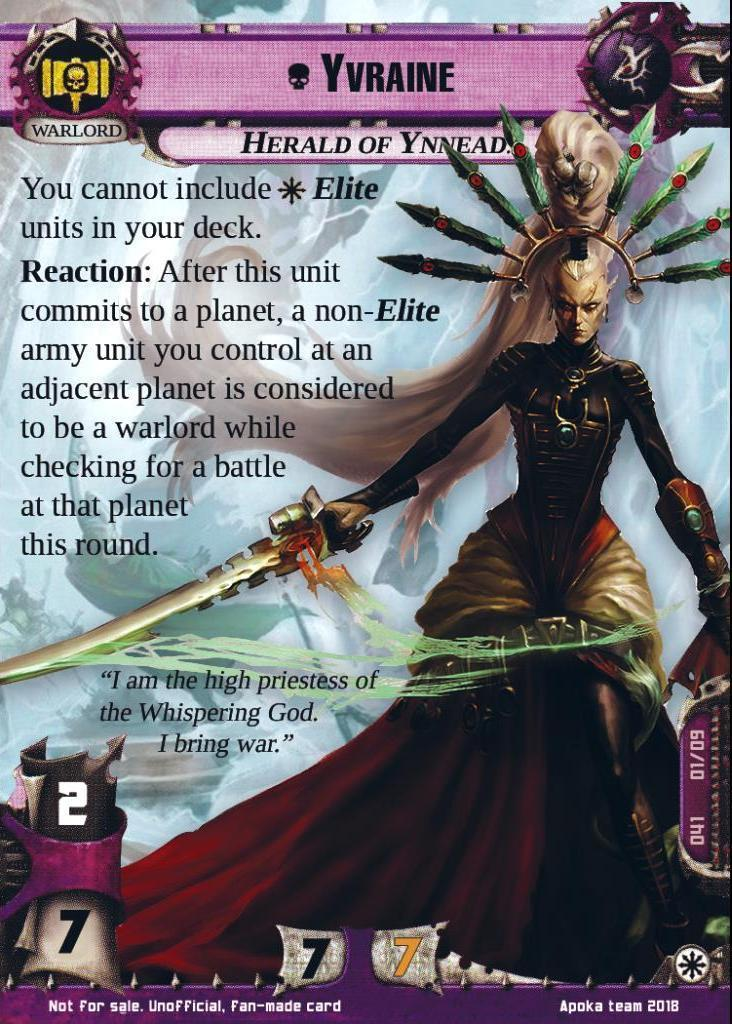
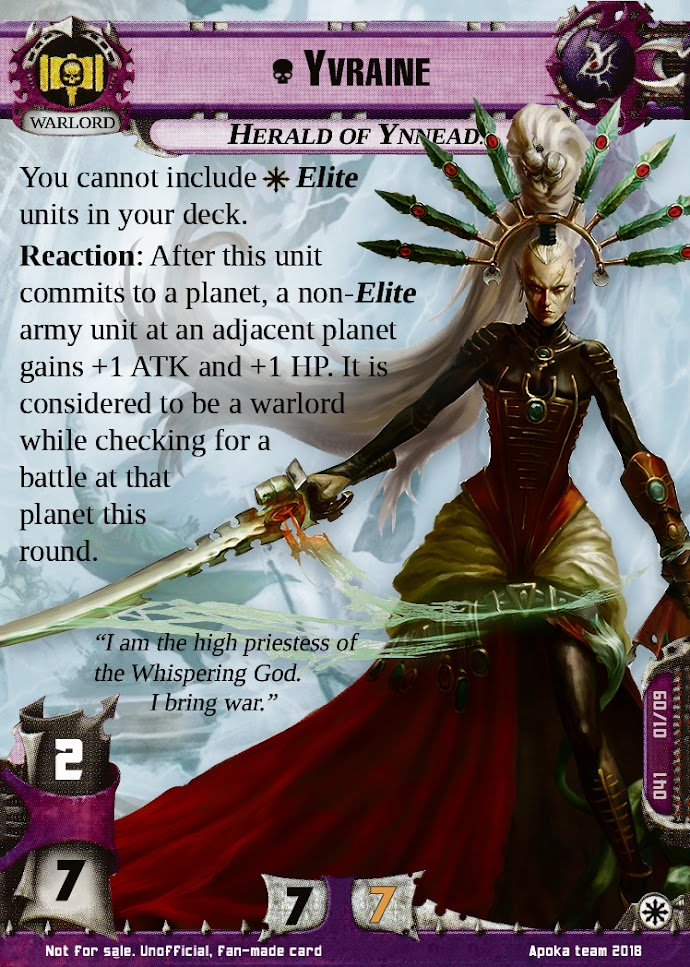
Minor fix to Yvraine

diff --git a/conquestdb/templates/home.html b/conquestdb/templates/home.html
@@ -45,6 +45,7 @@
 </style>
 <div class="box-scroll">
   <h1>Changelog</h1>
+  <p>-2/09/2025 Version 1.0.3b - Fixed Yvraine showing wrong image.</p>
   <p>22/08/2025 Version 1.0.3a hotfix - Fixed not being able to toggle between bloodied and errata sides of card images. Brotherhood Justicar images swapped round.</p>
   <p>21/08/2025 Version 1.0.3d - Minor graphical improvements. Fixed Call The Storm being misnamed as Call the Storm.</p>
   <p>19/08/2025 Version 1.0.3c - Can now search by a keyword or specialization in the deck creation filter.</p>

diff --git a/conquestdb/conquestdb/cardscode/Inits/DarkEldarCardsInit.py b/conquestdb/conquestdb/cardscode/Inits/DarkEldarCardsInit.py
@@ -475,8 +475,8 @@ def dark_eldar_cards_init():
                               1, faction, "Signature", 1, False, war_pack_info="Overrun"),
         CardClasses.WarlordCard("Yvraine", "You cannot include Chaos Elite units in your deck.\n"
                                            "Reaction: After this unit commits to a planet, a non-Elite army "
-                                           "unit you control at an adjacent planet is considered to be a warlord "
-                                           "while checking for a battle at that planet this round.",
+                                           "unit at an adjacent planet gains +1 ATK and +1 HP. It is considered to be a"
+                                           " warlord while checking for a battle at that planet this round.",
                                 "Herald of Ynnead.", faction, 2, 7, 2, 5, "Bloodied.", 7, 7,
                                 ["1x Attuned Gyrinx", "1x Host of the Emissary",
                                  "2x Triumvirate of Ynnead", "4x Yvraine's Entourage"],
